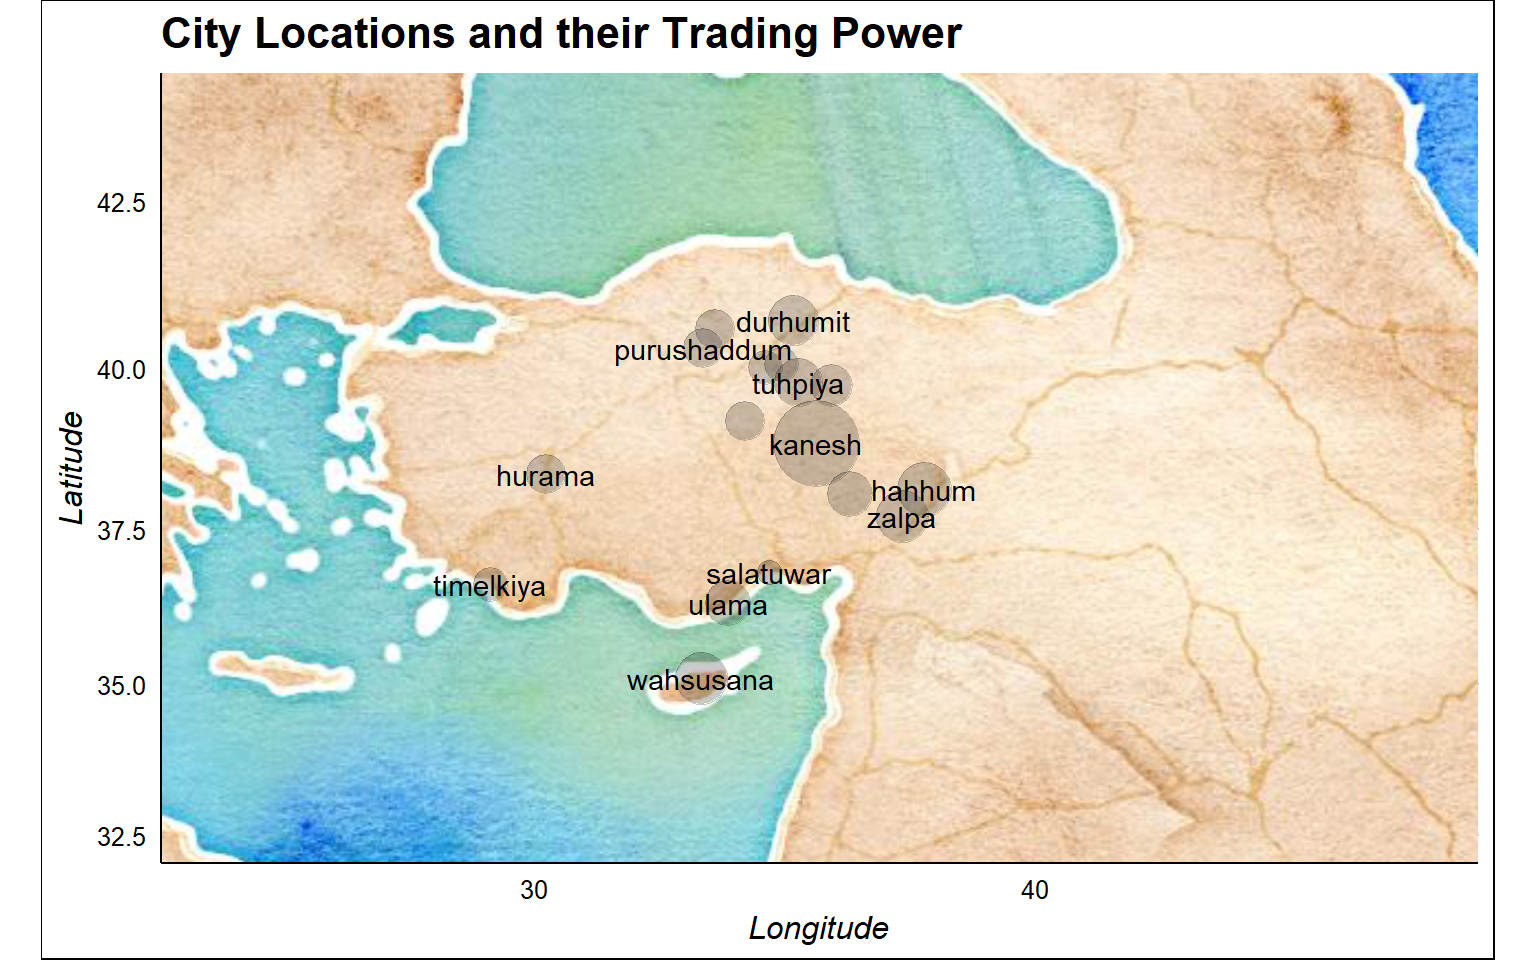
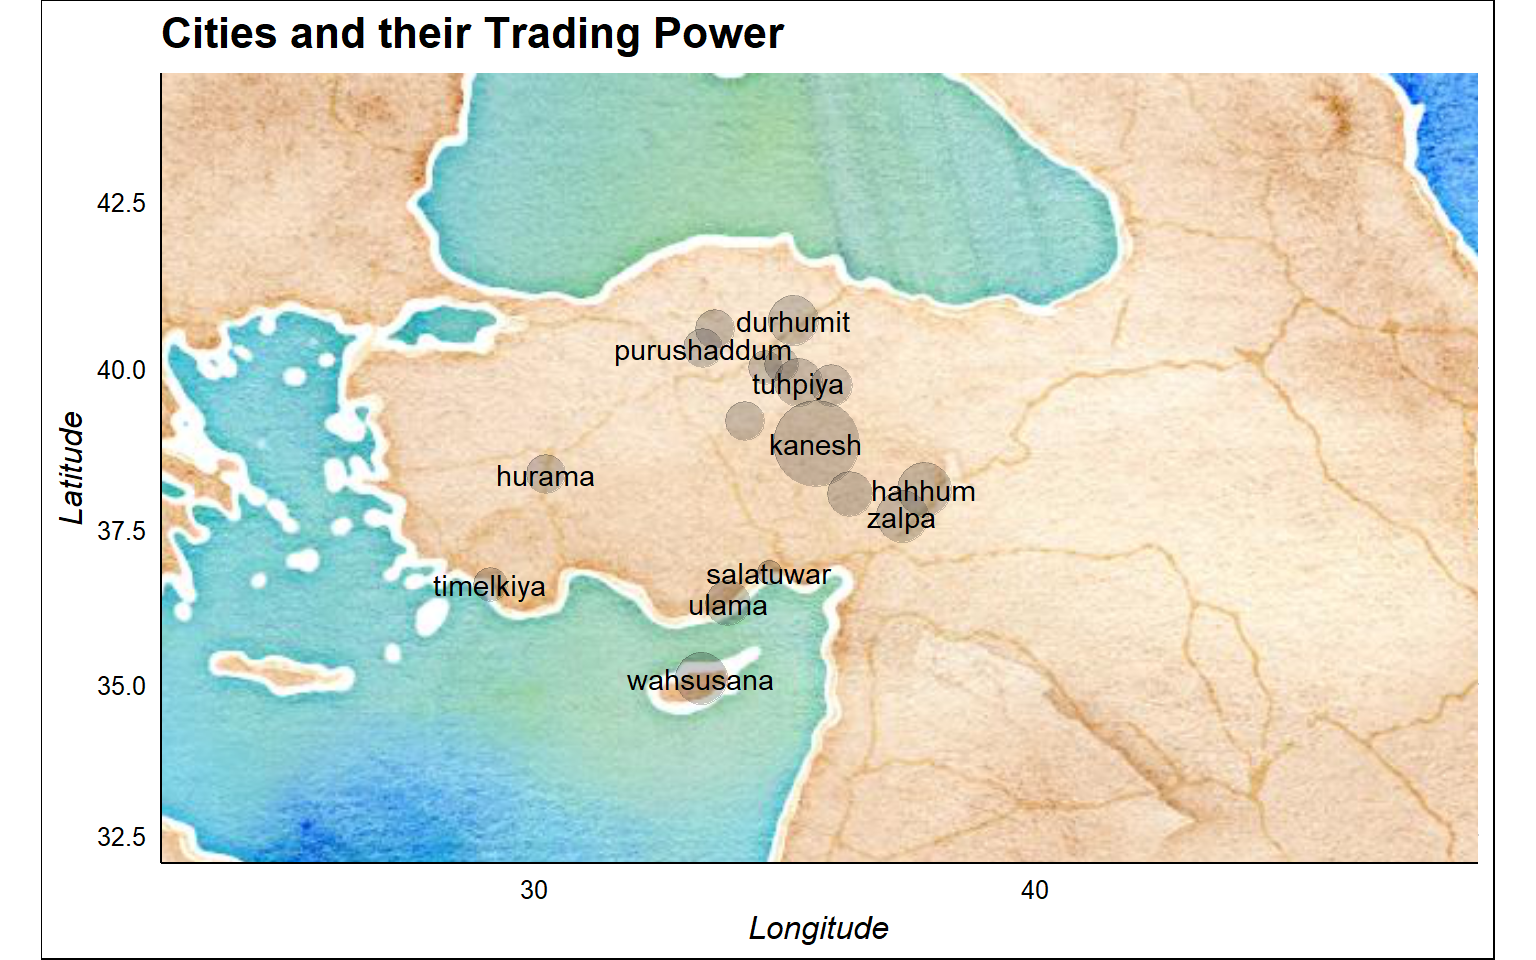
shiny_app_trial

Changed region(s): [[0.125, 0.0, 0.625, 0.0625]]

diff --git a/final.html b/final.html
@@ -227,7 +227,7 @@ $(document).ready(function () {
 <style> body { text-align: justify} </style>
 <div id="i-analyze-a-large-dataset-of-commercial-records-produced-by-assyrian-merchants-in-the-19th-century-bce" class="section level3">
 <h3>I analyze a large dataset of commercial records produced by Assyrian merchants in the 19th Century BCE…</h3>
-<p>This is a text mining project for Unstructured Text Data Course I take from Business Analytics department of Central European University. I don’t have any history, archeology or any social science background other than watching Indiana Jones and playing Lara Croft’s Tomb Rider. On the other hand, I did some google search to give you the context and placed them here.</p>
+<p>This is a text mining project for Unstructured Text Data Course I take from Business Analytics department of Central European University. I don’t have any history, archeology or any social science background other than watching Indiana Jones and playing Lara Croft’s Tomb Raider. On the other hand, I did some google search to give you the context and placed them here.</p>
 <p>The aim of the project is to make sense of some text which I have no idea about. However, If you give feedback I will be happy to update the post.</p>
 <p>This is about an acient language from the Bronze Age, meaning like 4000 years ago.</p>
 <p><a href="https://soundcloud.com/user444756202/the-epic-of-gilgames-standard-version-tablet-xi-lines-1-163-read-by-karl-hecker" title="from Gilgamesh">this is how the language sounded like…</a></p>
@@ -285,8 +285,9 @@ txt &lt;- bind_rows(list(oare1, oare2, oare3, oare4))
 colnames(txt) &lt;- c(&quot;text&quot;, &quot;title&quot;)</code></pre>
 <p>How many tablets do we have? We can simply count the Creators.</p>
 <pre class="r"><code>library(stringr)
-str_c(&quot;We have &quot;, nrow(txt[grep(&#39;^Creator&#39;, txt$text),]), &quot; tablets&quot;)</code></pre>
-<pre><code>## [1] &quot;We have 609 tablets&quot;</code></pre>
+str_c(&quot;We have &quot;, nrow(txt[grep(&#39;^Creator&#39;, txt$text),]), &quot; tablets&quot;) %&gt;%
+  pander::pander()</code></pre>
+<p>We have 609 tablets</p>
 <p>We have many unwanted words and phrases. Some simple regular expressions will help us.</p>
 <pre class="r"><code>#see the lines give the information regarding the Creator of the record
 head(txt[grep(&#39;^Creator&#39;, txt$text),], 3)</code></pre>
@@ -360,30 +361,58 @@ txt %&gt;%
 <p>It looks like these people were sending and receiving textiles, tin and copper. Transportation was mostly depending on donkeys and the payments were in silvers most of the time. The units of measurement (like the weight) were shekels, minas and talents. Example: Abele sends 5 talents of gold to Ibalaya for 200 shekels of silver, on behalf of Iddin-Istar.</p>
 <p><b>2018.03.08 </b></p>
 <p>Looking at the frequency plot again, what does <strong>pusuken</strong> mean? It is repeating more than 500 times…</p>
-<pre class="r"><code>head(original_text[str_detect(original_text$text, &quot;Pusu-ken&quot;), 1], 5)</code></pre>
-<pre><code>## # A tibble: 5 x 1
-##   text                                                                    
-##   &lt;chr&gt;                                                                   
-## 1 &quot;1-3To Amur-Istar and Pusu-ken from Kuzallum: &quot;                         
-## 2 &quot;1-2From su-hubur to Pusu-ken: &quot;                                        
-## 3 &quot;1-7Zupa seized us against the sons of Pusu-ken and Zupa said to the so~
-## 4 &quot;7-9Why is it that Suen-re&#39;i detains me? 10-18The sons of Pusu-ken (res~
-## 5 &quot;51 1/2 shekels (to?) Ahu-waqar. 6x shekel(s) (to?) Pusu-ken. 72 shekel~</code></pre>
+<pre class="r"><code>head(original_text[str_detect(original_text$text, &quot;Pusu-ken&quot;), 1], 4) %&gt;%
+  pander()</code></pre>
+<table style="width:44%;">
+<colgroup>
+<col width="44%" />
+</colgroup>
+<thead>
+<tr class="header">
+<th align="center">text</th>
+</tr>
+</thead>
+<tbody>
+<tr class="odd">
+<td align="center">1-3To Amur-Istar and Pusu-ken from Kuzallum:</td>
+</tr>
+<tr class="even">
+<td align="center">1-2From su-hubur to Pusu-ken:</td>
+</tr>
+<tr class="odd">
+<td align="center">1-7Zupa seized us against the sons of Pusu-ken and Zupa said to the sons of Pusu-ken, “Your father took the silver stated in my sealed tablets.</td>
+</tr>
+<tr class="even">
+<td align="center">7-9Why is it that Suen-re’i detains me? 10-18The sons of Pusu-ken (responded): “Our father received the silver of the sealed tablet of Zupa. Release it and we will give you the matter.”</td>
+</tr>
+</tbody>
+</table>
 <p>A family business! It turns out Pusuken was the most famous businessman. Probably he was the leader of a powerful family controlling most of the trade happening in the region. His sons were handling the transactions. Assurnada and Assurmalik are the other two notable tradesmen coming out from the frequency table.</p>
 <p>Another frequent word is ‘son’. Let’s find out why.</p>
-<pre class="r"><code>tail(original_text[str_detect(original_text$text, &quot;son&quot;), 1], 5)</code></pre>
-<pre><code>## # A tibble: 5 x 1
-##   text                                                                    
-##   &lt;chr&gt;                                                                   
-## 1 Iddin-Istar son of Assur-nada owes 5 5/6                                
-## 2 &quot; 13-15The month Te&#39;inatum, eponymy Alahum son of Inah-ili.  16-18Witne~
-## 3 &quot;15-18Witnesses: Burqanim son of Kakkabanim son of su-Istar son of suay~
-## 4 &quot;3-5Assur-malik son of Erraya brought your silver -- 15 minas silver. 5~
-## 5 &quot;18-28Its value in silver 1 mina 5 shekels, 3 shekels- the feed of the ~</code></pre>
-<p>son of Assurnada, son of Inahili, son of Iddin… Of course, these are family names. That’s why it repeats a lot.</p>
+<pre class="r"><code>tail(original_text[str_detect(original_text$text, &quot;son&quot;), 1], 5)[c(1, 3), ] %&gt;%
+  pander()</code></pre>
+<table style="width:43%;">
+<colgroup>
+<col width="43%" />
+</colgroup>
+<thead>
+<tr class="header">
+<th align="center">text</th>
+</tr>
+</thead>
+<tbody>
+<tr class="odd">
+<td align="center">Iddin-Istar son of Assur-nada owes 5 5/6</td>
+</tr>
+<tr class="even">
+<td align="center">15-18Witnesses: Burqanim son of Kakkabanim son of su-Istar son of suaya</td>
+</tr>
+</tbody>
+</table>
+<p>son of Assurnada, son of Inahili, son of Kakkabanim… Of course, these are family names. That’s why it repeats a lot.</p>
 <p><b>2018.03.10 </b></p>
 <p>Now we have a fairly good understanding of the most frequent words. Let’s get a big picture of the ancient cities mentioned in our text.</p>
-<p>Ancient city names are easily available online. We will join their dataframe with our text. Our objective is to see how many times these cities are mentioned in our text and visualize them.</p>
+<p>Ancient city names are easily available online. I created a dataframe called “Citites” which contain their geolocations. We will join information into this dataframe from our text. Our objective is to come up with some metric which can represent trading power of these cities, and visualize them.</p>
 <pre class="r"><code>library(tidyr)
 
 cities &lt;- cities %&gt;%
@@ -418,7 +447,8 @@ for(j in 1:length(pointer)) {
                                 str_c(pointer[j], &#39; &#39;, cities_in_text$cityName[i]), 
                                                      
                                 txt$text), ])}
-                               }
+}
+
 
 cities_in_text &lt;- cities_in_text %&gt;%
                     mutate(import = to,
@@ -493,7 +523,7 @@ ggmap(b) + geom_point(data = cities_in_text,
            scale_size_continuous(range = c(4, 15)) +
   
            labs(x = &quot;Longitude&quot;, y = &quot;Latitude&quot;,
-           title=&quot;City Locations and their Trading Power&quot;, color = &quot;Type&quot;) +
+           title=&quot;Cities and their Trading Power&quot;, color = &quot;Type&quot;) +
   
            geom_text(data = cities_in_text, aes(longitude, latitude, label = cityName), 
                      check_overlap = TRUE) + 
